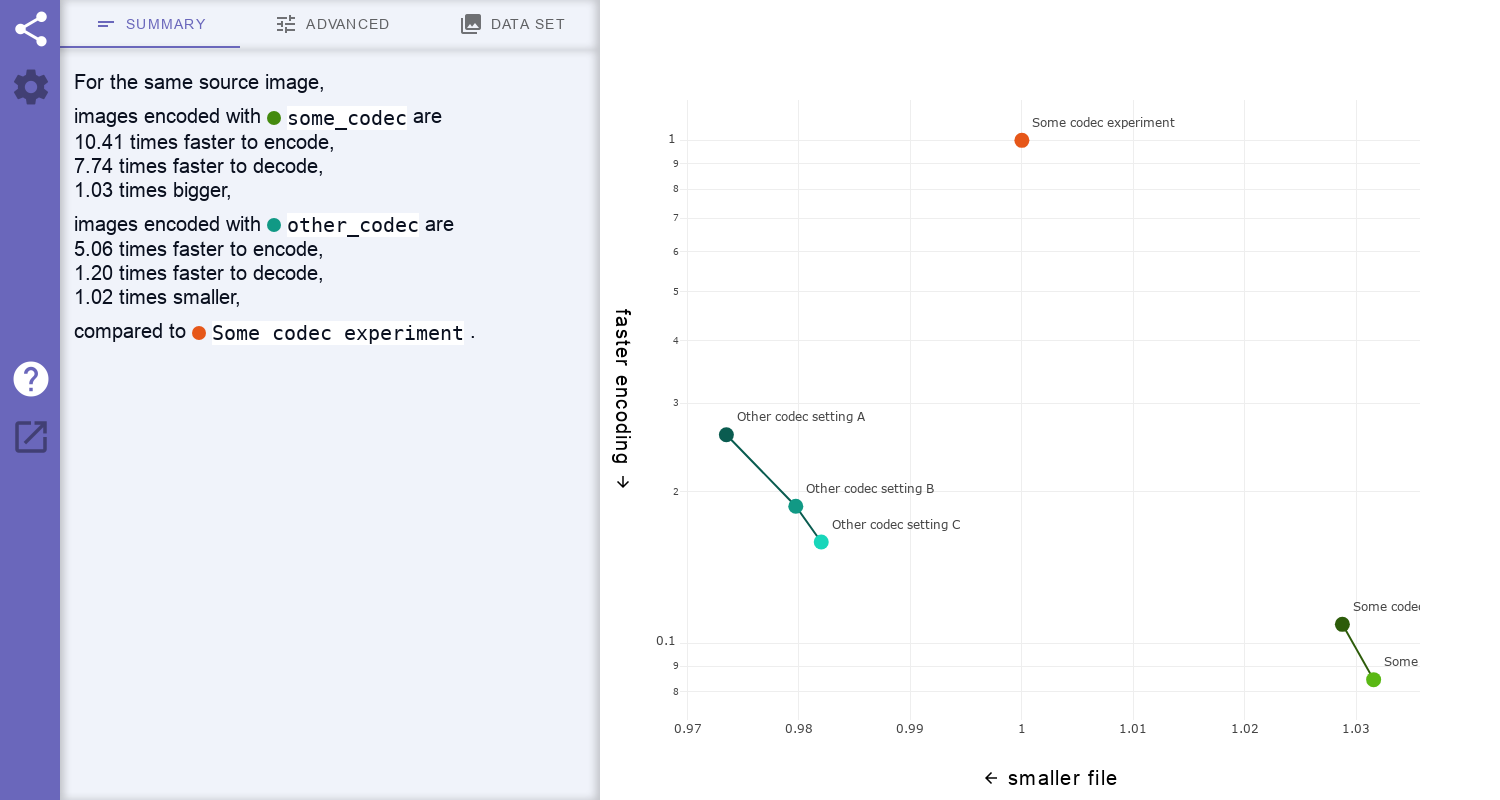
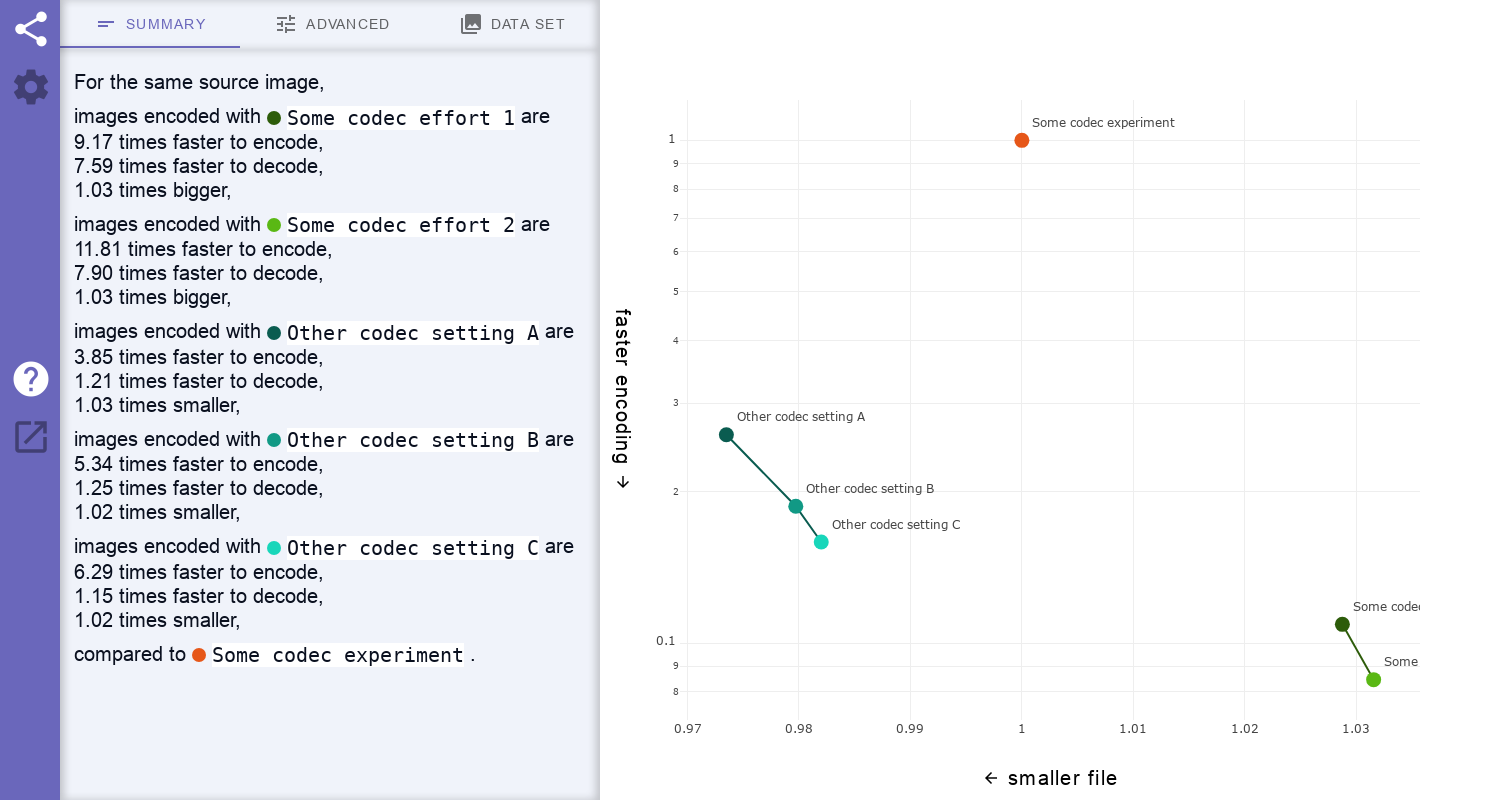
Codec-Compare version 0.5.0
No longer merge similar batches in Summary tab to avoid confusion.
Add a visibility toggle button per batch in Advanced tab.

diff --git a/src/batch_merger.ts b/src/batch_merger.ts
@@ -18,171 +18,6 @@ import {Batch} from './entry';
 import {GeometricMean} from './geometric_mean';
 import {FieldMetricStats, SourceCount} from './metric';
 
-function mergeBatchesWithSameCodec(batches: BatchSelection[]): BatchSelection|
-    undefined {
-  const mergedBatch =
-      new Batch(batches[0].batch.url, batches[0].batch.folderPath);
-  mergedBatch.index = batches[0].batch.index;  // Used to access fields through
-                                               // FieldMetric.fieldIndices.
-  mergedBatch.codec = batches[0].batch.codec;
-  mergedBatch.name = mergedBatch.codec;
-  mergedBatch.version = batches[0].batch.version;
-  for (const batch of batches) {
-    if (batch.batch.version !== batches[0].batch.version) return undefined;
-  }
-
-  // Use the time field as a way of signaling the aggregation.
-  mergedBatch.time = undefined;
-  mergedBatch.timeStringShort = 'aggregate of';
-  for (const batch of batches) {
-    mergedBatch.timeStringShort += ' ' + batch.batch.name;
-  }
-  mergedBatch.timeStringLong = mergedBatch.timeStringShort;
-
-  // Shallow copy the fields and check their consistency accross the batches of
-  // the same codec.
-  mergedBatch.fields = batches[0].batch.fields;
-  for (const batch of batches) {
-    if (batch.batch.fields.length !== mergedBatch.fields.length) {
-      return undefined;
-    }
-    for (let i = 0; i < mergedBatch.fields.length; i++) {
-      if (batch.batch.fields[i].id !== mergedBatch.fields[i].id) {
-        return undefined;
-      }
-    }
-  }
-
-  // Average the colors.
-  let [rSum, gSum, bSum] = [0, 0, 0];
-  for (const batch of batches) {
-    const [r, g, b] = hexStringToRgb(batch.batch.color);
-    rSum += r;
-    gSum += g;
-    bSum += b;
-  }
-  mergedBatch.color = rgbToHexString(
-      rSum / batches.length, gSum / batches.length, bSum / batches.length);
-
-  const mergedBatchSelection = new BatchSelection(mergedBatch);
-
-  // Shallow copy the filters and check their consistency accross the batches of
-  // the same codec.
-  mergedBatchSelection.fieldFilters = batches[0].fieldFilters;
-  for (const batch of batches) {
-    if (batch.fieldFilters.length !==
-        mergedBatchSelection.fieldFilters.length) {
-      return undefined;
-    }
-    for (let i = 0; i < mergedBatchSelection.fieldFilters.length; i++) {
-      const pointsAreFiltered =
-          batch.fieldFilters[i].actuallyFiltersPointsOut(batch.batch.fields[i]);
-      if (pointsAreFiltered !==
-          mergedBatchSelection.fieldFilters[i].actuallyFiltersPointsOut(
-              mergedBatch.fields[i])) {
-        return undefined;
-      }
-      if (pointsAreFiltered) {
-        if (batch.batch.fields[i].isNumber !== mergedBatch.fields[i].isNumber) {
-          return undefined;
-        }
-        if (mergedBatch.fields[i].isNumber) {
-          if (batch.fieldFilters[i].rangeStart !==
-                  mergedBatchSelection.fieldFilters[i].rangeStart ||
-              batch.fieldFilters[i].rangeEnd !==
-                  mergedBatchSelection.fieldFilters[i].rangeEnd) {
-            return undefined;
-          }
-        } else if (
-            batch.fieldFilters[i].uniqueValues !==
-            mergedBatchSelection.fieldFilters[i].uniqueValues) {
-          return undefined;
-        }
-      }
-    }
-  }
-
-  // Ignore all BatchSelection fields but the filters and the stats.
-  for (const batch of batches) {
-    if (batch.stats.length !== batches[0].stats.length) return undefined;
-  }
-  for (let stat = 0; stat < batches[0].stats.length; stat++) {
-    const mergedStats = new FieldMetricStats();
-    mergedStats.minRatio = batches[0].stats[stat].minRatio;
-    mergedStats.maxRatio = batches[0].stats[stat].maxRatio;
-    mergedStats.absoluteArithmeticMean = 0;
-    mergedStats.relativeArithmeticMean = 0;
-
-    const geometricMean = new GeometricMean();
-    let weightSum = 0;
-    for (const batch of batches) {
-      // Weigh each batch by its match count.
-      const weight = batch.matchedDataPoints.rows.length;
-      // TODO: Check the validity of the aggregation methods.
-      mergedStats.absoluteArithmeticMean +=
-          batch.stats[stat].absoluteArithmeticMean * weight;
-      for (let p = 0; p < batch.matchedDataPoints.rows.length; ++p) {
-        geometricMean.add(batch.stats[stat].geometricMean);
-      }
-      mergedStats.minRatio =
-          Math.min(mergedStats.minRatio, batch.stats[stat].minRatio);
-      mergedStats.maxRatio =
-          Math.max(mergedStats.maxRatio, batch.stats[stat].maxRatio);
-      mergedStats.relativeArithmeticMean +=
-          batch.stats[stat].relativeArithmeticMean * weight;
-      weightSum += weight;
-    }
-
-    if (weightSum === 0) return undefined;
-    mergedStats.absoluteArithmeticMean /= weightSum;
-    mergedStats.geometricMean = geometricMean.get();
-    mergedStats.relativeArithmeticMean /= weightSum;
-
-    mergedBatchSelection.stats.push(mergedStats);
-  }
-
-  // No UI need for mergeHistograms() here. Skip it.
-
-  return mergedBatchSelection;
-}
-
-/* Combine Batch stats based on same codec.
- * Returns partial data with shallow copies of members.
- * Returns an empty array in case of error or if there is nothing to merge. */
-export function mergeBatches(
-    batches: BatchSelection[], skipIndex: number): BatchSelection[] {
-  const map = new Map<string, BatchSelection[]>();
-  for (const batch of batches) {
-    const batchesWithSameCodec = map.get(batch.batch.codec);
-    if (batchesWithSameCodec === undefined) {
-      map.set(batch.batch.codec, [batch]);
-    } else {
-      batchesWithSameCodec.push(batch);
-    }
-  }
-
-  const skipCodec = (skipIndex >= 0 && skipIndex < batches.length) ?
-      batches[skipIndex].batch.codec :
-      undefined;
-  let atLeastOneMerge = false;
-  const mergedBatches: BatchSelection[] = [];
-  for (const [codec, batches] of map) {
-    if (codec === skipCodec) continue;
-
-    if (batches.length === 1) {
-      mergedBatches.push(batches[0]);
-    } else {
-      const mergedBatch = mergeBatchesWithSameCodec(batches);
-      if (mergedBatch === undefined) {
-        return [];
-      }
-      mergedBatches.push(mergedBatch);
-      atLeastOneMerge = true;
-    }
-  }
-  return atLeastOneMerge ? mergedBatches : [];
-}
-
 /** Aggregates histograms by sourceName. */
 export function mergeHistograms(histograms: SourceCount[][]): SourceCount[] {
   const aggHisto = new Map<string, SourceCount>();

diff --git a/src/help_ui.ts b/src/help_ui.ts
@@ -136,7 +136,8 @@ export class HelpUi extends LitElement {
       <div class="descriptionHolder" id="batchSelectionsDescription">
         <div class="bracket"></div>
         <p>
-        Batches are aggregated by codec.<br>
+        Each batch contains encode and decode data over a set of images for a
+        given codec at a specified version and with specific settings.<br>
         See the ADVANCED tab for more information and to change the comparison
         reference, criteria and shown metrics.
         </p>
@@ -183,7 +184,7 @@ export class HelpUi extends LitElement {
         The compared codecs are listed on the left. Data batches may represent
         different codecs, or the same codec with different settings. Each batch
         has an associated color.<br>
-        Click the info button to see batch metadata and data points. Some data
+        Click the batch name to see batch metadata and data points. Some data
         points may be filtered out. When comparing lossy compression methods, it
         is recommended to filter based on
         <a href="https://github.com/webmproject/codec-compare/wiki/Bits-per-pixel-of-Internet-images"
@@ -192,6 +193,8 @@ export class HelpUi extends LitElement {
           <mwc-icon>open_in_new</mwc-icon></a>.<br>
         Click the focus button to set a batch as the reference to compare the
         others against.<br>
+        Click the visibility button to show or hide a specific batch in the plot
+        and in the SUMMARY tab.<br>
         The statistics relative to the reference batch for the fields selected
         as metrics are displayed in the right-most columns. The aggregation
         method can be changed in the Settings.
@@ -208,7 +211,8 @@ export class HelpUi extends LitElement {
         presented here to compare their relative performance.<br>
         <br>
         The count associated with each asset corresponds to the number of
-        matched pairs based on that asset.
+        matched pairs based on that asset.<br>
+        Each image can be toggled on or off across all batches.
         </p>
       </div>`;
   }

diff --git a/src/sentence_ui.ts b/src/sentence_ui.ts
@@ -18,7 +18,6 @@ import './matcher_ui';
 import {css, html, LitElement} from 'lit';
 import {customElement, property} from 'lit/decorators.js';
 
-import {mergeBatches} from './batch_merger';
 import {BatchSelection} from './batch_selection';
 import {Batch, DISTORTION_METRIC_FIELD_IDS, Field, FieldId, fieldUnit} from './entry';
 import {dispatch, EventType, listen} from './events';
@@ -218,16 +217,9 @@ export class SentenceUi extends LitElement {
   }
 
   private renderBatches() {
-    const mergedBatches = mergeBatches(
-        this.state.batchSelections,
-        /*skipIndex=*/ this.state.referenceBatchSelectionIndex);
-    if (mergedBatches.length > 0) {
-      return html`${mergedBatches.map((batchSelection, index) => {
-        return this.renderBatch(batchSelection);
-      })}`;
-    }
     return html`${this.state.batchSelections.map((batchSelection, index) => {
       return this.state.referenceBatchSelectionIndex === index ||
+              batchSelection.isDisplayed === false ||
               batchSelection.matchedDataPoints.rows.length === 0 ?
           '' :
           this.renderBatch(batchSelection);

diff --git a/src/state_hash.ts b/src/state_hash.ts
@@ -67,7 +67,13 @@ export function stateToMapping(state: State) {
   // easier to read in a URL this way.
   values.set('ref', reference.name);
 
-  // Each field fitler is stored as "off" if disabled, and as its range or set
+  // Batch visibility.
+  for (const batchSelection of state.batchSelections) {
+    const key = `${batchSelection.batch.name}-show`;
+    values.set(key, batchSelection.isDisplayed ? 'on' : 'off');
+  }
+
+  // Each field filter is stored as "off" if disabled, and as its range or set
   // of filtered values if enabled.
   for (const batchSelection of state.batchSelections) {
     for (const [fieldIndex, fieldFilter] of batchSelection.fieldFilters
@@ -181,6 +187,12 @@ export function applyMappingToState(values: URLSearchParams, state: State) {
         break;
       }
     }
+  }
+
+  for (const batchSelection of state.batchSelections) {
+    const value = values.get(`${batchSelection.batch.name}-show`);
+    if (value === 'on') batchSelection.isDisplayed = true;
+    if (value === 'off') batchSelection.isDisplayed = false;
   }
 
   for (const batchSelection of state.batchSelections) {

diff --git a/src/batch_selection_actions_ui.ts b/src/batch_selection_actions_ui.ts
@@ -33,6 +33,8 @@ export class BatchSelectionActionsUi extends LitElement {
   @property() isReference!: boolean;
 
   override render() {
+    const batchSelection = this.state.batchSelections[this.batchSelectionIndex];
+
     // Note: A span is used because title does not appear on hover when
     //       mwc-icon-button is disabled.
     const focusTitle = `${
@@ -47,6 +49,16 @@ export class BatchSelectionActionsUi extends LitElement {
           @click=${() => {
       this.state.referenceBatchSelectionIndex = this.batchSelectionIndex;
       dispatch(EventType.REFERENCE_CHANGED);
+    }}>
+        </mwc-icon-button>
+      </span>
+      <span title="${batchSelection.isDisplayed ? 'Hide' : 'Show'}">
+        <mwc-icon-button
+          icon=${batchSelection.isDisplayed ? 'visibility' : 'visibility_off'}
+          @click=${() => {
+      batchSelection.isDisplayed = !batchSelection.isDisplayed;
+      dispatch(EventType.MATCHED_DATA_POINTS_CHANGED);
+      this.requestUpdate();
     }}>
         </mwc-icon-button>
       </span>

diff --git a/src/plot_ui.ts b/src/plot_ui.ts
@@ -151,6 +151,7 @@ export class PlotUi {
 
     if (this.state.showEachPoint) {
       for (const batchSelection of this.state.batchSelections) {
+        if (batchSelection.isDisplayed === false) continue;
         if (batchSelection.matchedDataPoints.rows.length === 0) continue;
         const batch = batchSelection.batch;
 
@@ -241,6 +242,7 @@ export class PlotUi {
         }
 
         const batchSelection = this.state.batchSelections[batchIndex];
+        if (batchSelection.isDisplayed === false) continue;
         if (batchSelection.matchedDataPoints.rows.length === 0) continue;
         const batch = batchSelection.batch;
         xAxis = batch.fields[xMetric.fieldIndices[batch.index]].displayName;

diff --git a/src/batch_selection.ts b/src/batch_selection.ts
@@ -24,6 +24,9 @@ export class BatchSelection {
   /** The selected set of input raw data points. */
   batch: Batch;
 
+  /** If false, the batch is not displayed in the plot and summary. */
+  isDisplayed: boolean = true;
+
   /**
    * How to filter these input raw data points into a subset that will be used
    * for the comparison.

diff --git a/src/codec_compare.ts b/src/codec_compare.ts
@@ -207,7 +207,7 @@ export class CodecCompare extends LitElement {
           </p>
 
           <p id="credits">
-            Codec Compare version 0.4.0<br>
+            Codec Compare version 0.5.0<br>
             <a href="https://github.com/webmproject/codec-compare">
               Sources on GitHub
             </a>

diff --git a/CHANGELOG.md b/CHANGELOG.md
@@ -1,5 +1,10 @@
 # Changelog
 
+## v0.5.0
+
+- No longer merge similar batches in Summary tab to avoid confusion.
+- Add a visibility toggle button per batch in Advanced tab.
+
 ## v0.4.0
 
 - Improve navigation by refactoring the BatchUi, BatchSelectionUi, MatchesUi,
